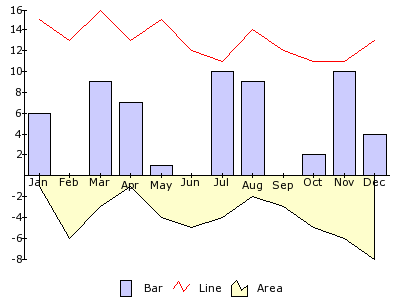
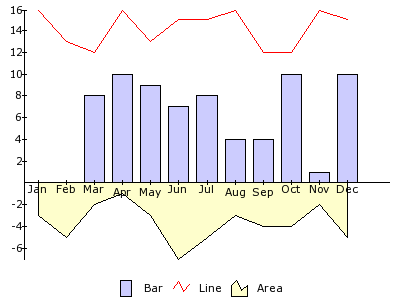
* Added clipping support, causing forceMinimum() and forceMaximum() to show expected results (new Image_Canvas functionality) * Modified axis arrows, so that an axis with all negative values, the arrow will be shown at the minimum value instead of maximum * Fixed a bug with Image_Graph_DataPreproces
git-svn-id: http://svn.php.net/repository/pear/packages/Image_Graph/trunk@201454 c90b9560-bf6c-de11-be94-00142212c4b1

diff --git a/docs/examples/index.html b/docs/examples/index.html
@@ -1,1 +1,1 @@
-<!DOCTYPE html PUBLIC "-//W3C//DTD HTML 4.01 Transitional//EN"><html><head><title>Image_Graph Examples</title></head><body><strong>antialias.php</strong><br><img src="antialias.php" alt="antialias.php"><hr size=1><strong>axis_direction.php</strong><br><img src="axis_direction.php" alt="axis_direction.php"><hr size=1><strong>category_axis_explanation.php</strong><br><img src="category_axis_explanation.php" alt="category_axis_explanation.php"><hr size=1><strong>color_chart.php</strong><br><img src="color_chart.php" alt="color_chart.php"><hr size=1><strong>customize.php</strong><br><img src="customize.php" alt="customize.php"><hr size=1><strong>datapreprocessor.php</strong><br><img src="datapreprocessor.php" alt="datapreprocessor.php"><hr size=1><strong>double_category_axis.php</strong><br><img src="double_category_axis.php" alt="double_category_axis.php"><hr size=1><strong>driver_pdf.php</strong><br><img src="driver_pdf.php" alt="driver_pdf.php"><hr size=1><strong>driver_png_svg.php</strong><br><img src="driver_png_svg.php" alt="driver_png_svg.php"><hr size=1><strong>driver_swf01.php</strong><br><img src="driver_swf01.php" alt="driver_swf01.php"><hr size=1><strong>driver_swf02.php</strong><br><img src="driver_swf02.php" alt="driver_swf02.php"><hr size=1><strong>driver_swf03.php</strong><br><img src="driver_swf03.php" alt="driver_swf03.php"><hr size=1><strong>frontpage_sample.php</strong><br><img src="frontpage_sample.php" alt="frontpage_sample.php"><hr size=1><strong>gradient_fill_area.php</strong><br><img src="gradient_fill_area.php" alt="gradient_fill_area.php"><hr size=1><strong>gradient_pie.php</strong><br><img src="gradient_pie.php" alt="gradient_pie.php"><hr size=1><strong>gradient_step.php</strong><br><img src="gradient_step.php" alt="gradient_step.php"><hr size=1><strong>html_image_map.php</strong><br><img src="html_image_map.php" alt="html_image_map.php"><hr size=1><strong>image_fill.php</strong><br><img src="image_fill.php" alt="image_fill.php"><hr size=1><strong>layout_matrix.php</strong><br><img src="layout_matrix.php" alt="layout_matrix.php"><hr size=1><strong>line_break.php</strong><br><img src="line_break.php" alt="line_break.php"><hr size=1><strong>logo_graph.php</strong><br><img src="logo_graph.php" alt="logo_graph.php"><hr size=1><strong>log_axis.php</strong><br><img src="log_axis.php" alt="log_axis.php"><hr size=1><strong>log_axis_intersect.php</strong><br><img src="log_axis_intersect.php" alt="log_axis_intersect.php"><hr size=1><strong>manual_labels.php</strong><br><img src="manual_labels.php" alt="manual_labels.php"><hr size=1><strong>misc01.php</strong><br><img src="misc01.php" alt="misc01.php"><hr size=1><strong>misc02.php</strong><br><img src="misc02.php" alt="misc02.php"><hr size=1><strong>misc03.php</strong><br><img src="misc03.php" alt="misc03.php"><hr size=1><strong>misc04.php</strong><br><img src="misc04.php" alt="misc04.php"><hr size=1><strong>misc05.php</strong><br><img src="misc05.php" alt="misc05.php"><hr size=1><strong>misc06.php</strong><br><img src="misc06.php" alt="misc06.php"><hr size=1><strong>multiple_plots.php</strong><br><img src="multiple_plots.php" alt="multiple_plots.php"><hr size=1><strong>negative_values.php</strong><br><img src="negative_values.php" alt="negative_values.php"><hr size=1><strong>plot_all.php</strong><br><img src="plot_all.php" alt="plot_all.php"><hr size=1><strong>plot_all_horizontal.php</strong><br><img src="plot_all_horizontal.php" alt="plot_all_horizontal.php"><hr size=1><strong>plot_all_horizontal_invert.php</strong><br><img src="plot_all_horizontal_invert.php" alt="plot_all_horizontal_invert.php"><hr size=1><strong>plot_area.php</strong><br><img src="plot_area.php" alt="plot_area.php"><hr size=1><strong>plot_area_smooth.php</strong><br><img src="plot_area_smooth.php" alt="plot_area_smooth.php"><hr size=1><strong>plot_area_stack.php</strong><br><img src="plot_area_stack.php" alt="plot_area_stack.php"><hr size=1><strong>plot_band.php</strong><br><img src="plot_band.php" alt="plot_band.php"><hr size=1><strong>plot_bar.php</strong><br><img src="plot_bar.php" alt="plot_bar.php"><hr size=1><strong>plot_bar_horizontal.php</strong><br><img src="plot_bar_horizontal.php" alt="plot_bar_horizontal.php"><hr size=1><strong>plot_bar_multiple.php</strong><br><img src="plot_bar_multiple.php" alt="plot_bar_multiple.php"><hr size=1><strong>plot_bar_stacked.php</strong><br><img src="plot_bar_stacked.php" alt="plot_bar_stacked.php"><hr size=1><strong>plot_bar_stacked100pct.php</strong><br><img src="plot_bar_stacked100pct.php" alt="plot_bar_stacked100pct.php"><hr size=1><strong>plot_bar_stacked_horizontal.php</strong><br><img src="plot_bar_stacked_horizontal.php" alt="plot_bar_stacked_horizontal.php"><hr size=1><strong>plot_bar_stacked_negative.php</strong><br><img src="plot_bar_stacked_negative.php" alt="plot_bar_stacked_negative.php"><hr size=1><strong>plot_boxwhisker.php</strong><br><img src="plot_boxwhisker.php" alt="plot_boxwhisker.php"><hr size=1><strong>plot_candlestick.php</strong><br><img src="plot_candlestick.php" alt="plot_candlestick.php"><hr size=1><strong>plot_impulse.php</strong><br><img src="plot_impulse.php" alt="plot_impulse.php"><hr size=1><strong>plot_impulse_stacked.php</strong><br><img src="plot_impulse_stacked.php" alt="plot_impulse_stacked.php"><hr size=1><strong>plot_line.php</strong><br><img src="plot_line.php" alt="plot_line.php"><hr size=1><strong>plot_line_smooth.php</strong><br><img src="plot_line_smooth.php" alt="plot_line_smooth.php"><hr size=1><strong>plot_map.php</strong><br><img src="plot_map.php" alt="plot_map.php"><hr size=1><strong>plot_odo.php</strong><br><img src="plot_odo.php" alt="plot_odo.php"><hr size=1><strong>plot_pie.php</strong><br><img src="plot_pie.php" alt="plot_pie.php"><hr size=1><strong>plot_pie_rotate.php</strong><br><img src="plot_pie_rotate.php" alt="plot_pie_rotate.php"><hr size=1><strong>plot_radar.php</strong><br><img src="plot_radar.php" alt="plot_radar.php"><hr size=1><strong>plot_radar_smooth.php</strong><br><img src="plot_radar_smooth.php" alt="plot_radar_smooth.php"><hr size=1><strong>plot_scatter.php</strong><br><img src="plot_scatter.php" alt="plot_scatter.php"><hr size=1><strong>plot_scatter_linefit.php</strong><br><img src="plot_scatter_linefit.php" alt="plot_scatter_linefit.php"><hr size=1><strong>plot_step.php</strong><br><img src="plot_step.php" alt="plot_step.php"><hr size=1><strong>secondary_axis.php</strong><br><img src="secondary_axis.php" alt="secondary_axis.php"><hr size=1><strong>simple.php</strong><br><img src="simple.php" alt="simple.php"><hr size=1><strong>simple_graph.php</strong><br><img src="simple_graph.php" alt="simple_graph.php"><hr size=1><strong>small_pie_plot.php</strong><br><img src="small_pie_plot.php" alt="small_pie_plot.php"><hr size=1><strong>vector_function.php</strong><br><img src="vector_function.php" alt="vector_function.php"><hr size=1></body></html>
+<!DOCTYPE html PUBLIC "-//W3C//DTD HTML 4.01 Transitional//EN"><html><head><title>Image_Graph Examples</title></head><body><strong>antialias.php</strong><br><img src="antialias.php" alt="antialias.php"><hr size=1><strong>axis_direction.php</strong><br><img src="axis_direction.php" alt="axis_direction.php"><hr size=1><strong>category_axis_explanation.php</strong><br><img src="category_axis_explanation.php" alt="category_axis_explanation.php"><hr size=1><strong>color_chart.php</strong><br><img src="color_chart.php" alt="color_chart.php"><hr size=1><strong>customize.php</strong><br><img src="customize.php" alt="customize.php"><hr size=1><strong>datapreprocessor.php</strong><br><img src="datapreprocessor.php" alt="datapreprocessor.php"><hr size=1><strong>double_category_axis.php</strong><br><img src="double_category_axis.php" alt="double_category_axis.php"><hr size=1><strong>driver_filepdf.php</strong><br><img src="driver_filepdf.php" alt="driver_filepdf.php"><hr size=1><strong>driver_pdf.php</strong><br><img src="driver_pdf.php" alt="driver_pdf.php"><hr size=1><strong>driver_png_svg.php</strong><br><img src="driver_png_svg.php" alt="driver_png_svg.php"><hr size=1><strong>driver_swf01.php</strong><br><img src="driver_swf01.php" alt="driver_swf01.php"><hr size=1><strong>driver_swf02.php</strong><br><img src="driver_swf02.php" alt="driver_swf02.php"><hr size=1><strong>driver_swf03.php</strong><br><img src="driver_swf03.php" alt="driver_swf03.php"><hr size=1><strong>frontpage_sample.php</strong><br><img src="frontpage_sample.php" alt="frontpage_sample.php"><hr size=1><strong>gradient_fill_area.php</strong><br><img src="gradient_fill_area.php" alt="gradient_fill_area.php"><hr size=1><strong>gradient_pie.php</strong><br><img src="gradient_pie.php" alt="gradient_pie.php"><hr size=1><strong>gradient_step.php</strong><br><img src="gradient_step.php" alt="gradient_step.php"><hr size=1><strong>horizontal.php</strong><br><img src="horizontal.php" alt="horizontal.php"><hr size=1><strong>html_image_map.php</strong><br><img src="html_image_map.php" alt="html_image_map.php"><hr size=1><strong>image_fill.php</strong><br><img src="image_fill.php" alt="image_fill.php"><hr size=1><strong>layout_matrix.php</strong><br><img src="layout_matrix.php" alt="layout_matrix.php"><hr size=1><strong>line_break.php</strong><br><img src="line_break.php" alt="line_break.php"><hr size=1><strong>logo_graph.php</strong><br><img src="logo_graph.php" alt="logo_graph.php"><hr size=1><strong>log_axis.php</strong><br><img src="log_axis.php" alt="log_axis.php"><hr size=1><strong>log_axis_intersect.php</strong><br><img src="log_axis_intersect.php" alt="log_axis_intersect.php"><hr size=1><strong>manual_labels.php</strong><br><img src="manual_labels.php" alt="manual_labels.php"><hr size=1><strong>misc01.php</strong><br><img src="misc01.php" alt="misc01.php"><hr size=1><strong>misc02.php</strong><br><img src="misc02.php" alt="misc02.php"><hr size=1><strong>misc03.php</strong><br><img src="misc03.php" alt="misc03.php"><hr size=1><strong>misc04.php</strong><br><img src="misc04.php" alt="misc04.php"><hr size=1><strong>misc05.php</strong><br><img src="misc05.php" alt="misc05.php"><hr size=1><strong>misc06.php</strong><br><img src="misc06.php" alt="misc06.php"><hr size=1><strong>multiple_plots.php</strong><br><img src="multiple_plots.php" alt="multiple_plots.php"><hr size=1><strong>negative_values.php</strong><br><img src="negative_values.php" alt="negative_values.php"><hr size=1><strong>plot_all.php</strong><br><img src="plot_all.php" alt="plot_all.php"><hr size=1><strong>plot_all_horizontal.php</strong><br><img src="plot_all_horizontal.php" alt="plot_all_horizontal.php"><hr size=1><strong>plot_all_horizontal_invert.php</strong><br><img src="plot_all_horizontal_invert.php" alt="plot_all_horizontal_invert.php"><hr size=1><strong>plot_area.php</strong><br><img src="plot_area.php" alt="plot_area.php"><hr size=1><strong>plot_area_smooth.php</strong><br><img src="plot_area_smooth.php" alt="plot_area_smooth.php"><hr size=1><strong>plot_area_stack.php</strong><br><img src="plot_area_stack.php" alt="plot_area_stack.php"><hr size=1><strong>plot_band.php</strong><br><img src="plot_band.php" alt="plot_band.php"><hr size=1><strong>plot_bar.php</strong><br><img src="plot_bar.php" alt="plot_bar.php"><hr size=1><strong>plot_bar_horizontal.php</strong><br><img src="plot_bar_horizontal.php" alt="plot_bar_horizontal.php"><hr size=1><strong>plot_bar_multiple.php</strong><br><img src="plot_bar_multiple.php" alt="plot_bar_multiple.php"><hr size=1><strong>plot_bar_stacked.php</strong><br><img src="plot_bar_stacked.php" alt="plot_bar_stacked.php"><hr size=1><strong>plot_bar_stacked100pct.php</strong><br><img src="plot_bar_stacked100pct.php" alt="plot_bar_stacked100pct.php"><hr size=1><strong>plot_bar_stacked_horizontal.php</strong><br><img src="plot_bar_stacked_horizontal.php" alt="plot_bar_stacked_horizontal.php"><hr size=1><strong>plot_bar_stacked_negative.php</strong><br><img src="plot_bar_stacked_negative.php" alt="plot_bar_stacked_negative.php"><hr size=1><strong>plot_boxwhisker.php</strong><br><img src="plot_boxwhisker.php" alt="plot_boxwhisker.php"><hr size=1><strong>plot_candlestick.php</strong><br><img src="plot_candlestick.php" alt="plot_candlestick.php"><hr size=1><strong>plot_impulse.php</strong><br><img src="plot_impulse.php" alt="plot_impulse.php"><hr size=1><strong>plot_impulse_stacked.php</strong><br><img src="plot_impulse_stacked.php" alt="plot_impulse_stacked.php"><hr size=1><strong>plot_line.php</strong><br><img src="plot_line.php" alt="plot_line.php"><hr size=1><strong>plot_line_smooth.php</strong><br><img src="plot_line_smooth.php" alt="plot_line_smooth.php"><hr size=1><strong>plot_map.php</strong><br><img src="plot_map.php" alt="plot_map.php"><hr size=1><strong>plot_odo.php</strong><br><img src="plot_odo.php" alt="plot_odo.php"><hr size=1><strong>plot_pie.php</strong><br><img src="plot_pie.php" alt="plot_pie.php"><hr size=1><strong>plot_pie_rotate.php</strong><br><img src="plot_pie_rotate.php" alt="plot_pie_rotate.php"><hr size=1><strong>plot_radar.php</strong><br><img src="plot_radar.php" alt="plot_radar.php"><hr size=1><strong>plot_radar_smooth.php</strong><br><img src="plot_radar_smooth.php" alt="plot_radar_smooth.php"><hr size=1><strong>plot_scatter.php</strong><br><img src="plot_scatter.php" alt="plot_scatter.php"><hr size=1><strong>plot_scatter_linefit.php</strong><br><img src="plot_scatter_linefit.php" alt="plot_scatter_linefit.php"><hr size=1><strong>plot_step.php</strong><br><img src="plot_step.php" alt="plot_step.php"><hr size=1><strong>secondary_axis.php</strong><br><img src="secondary_axis.php" alt="secondary_axis.php"><hr size=1><strong>simple.php</strong><br><img src="simple.php" alt="simple.php"><hr size=1><strong>simple_graph.php</strong><br><img src="simple_graph.php" alt="simple_graph.php"><hr size=1><strong>small_pie_plot.php</strong><br><img src="small_pie_plot.php" alt="small_pie_plot.php"><hr size=1><strong>vector_function.php</strong><br><img src="vector_function.php" alt="vector_function.php"><hr size=1></body></html>

diff --git a/docs/examples/all_negative.php b/docs/examples/all_negative.php
@@ -1,0 +1,72 @@
+<?php
+/**
+ * Usage example for Image_Graph.
+ * 
+ * Main purpose: 
+ * Axis arrows when all values are negative
+ * 
+ * Other: 
+ * None specific
+ * 
+ * $Id$
+ * 
+ * @package Image_Graph
+ * @author Jesper Veggerby <pear.nosey@veggerby.dk>
+ */
+
+require_once 'Image/Graph.php';
+
+// create the graph
+$Graph =& Image_Graph::factory('graph', array(600, 300));
+
+// add a TrueType font
+$Font =& $Graph->addNew('font', 'Verdana');
+// set the font size to 11 pixels
+$Font->setSize(10);
+
+$Graph->setFont($Font);
+
+// setup the plotarea, legend and their layout
+$Graph->add(
+   Image_Graph::vertical(
+      Image_Graph::factory('title', array('Arrow Position on All Negative', 12)),        
+      Image_Graph::horizontal(
+         $Plotarea1 = Image_Graph::factory('plotarea'),
+         $Plotarea2 = Image_Graph::factory('plotarea'),
+         50
+      ),
+      5
+   )
+);   
+
+$Dataset1 =& Image_Graph::factory('dataset');
+$Dataset1->addPoint('a', 19);
+$Dataset1->addPoint('b', 12);
+$Dataset1->addPoint('c', 16);
+$Dataset1->addPoint('d', 7);
+$Dataset1->addPoint('e', 21);
+$Dataset1->addPoint('f', 14);
+$Dataset1->addPoint('g', 16);
+$Plot1 =& $Plotarea1->addNew('line', array(&$Dataset1));
+$Plot1->setLineColor('red');                  
+
+$AxisY1 =& $Plotarea1->getAxis('y');
+$AxisY1->showArrow();                  
+
+$Dataset2 =& Image_Graph::factory('dataset');
+$Dataset2->addPoint('a', -19);
+$Dataset2->addPoint('b', -12);
+$Dataset2->addPoint('c', -16);
+$Dataset2->addPoint('d', -7);
+$Dataset2->addPoint('e', -21);
+$Dataset2->addPoint('f', -14);
+$Dataset2->addPoint('g', -16);
+$Plot2 =& $Plotarea2->addNew('line', array(&$Dataset2));
+$Plot2->setLineColor('red');
+
+$AxisY2 =& $Plotarea2->getAxis('y');
+$AxisY2->showArrow();                  
+     
+// output the Graph
+$Graph->done();
+?>

diff --git a/Graph/Plot.php b/Graph/Plot.php
@@ -704,16 +704,22 @@ class Image_Graph_Plot extends Image_Graph_Plotarea_Element
             $dataset->_reset();
             while ($point = $dataset->_next()) {
                 $x = $point['X'];
-                $total['ALL_SUM_Y'] += $point['Y'];
-                if (isset($total['TOTAL_Y'][$x])) {
-                    $total['TOTAL_Y'][$x] += $point['Y'];
-                } else {
-                    $total['TOTAL_Y'][$x] = $point['Y'];
+                
+                if (is_numeric($point['Y'])) {
+                    $total['ALL_SUM_Y'] += $point['Y'];
+                    if (isset($total['TOTAL_Y'][$x])) {
+                        $total['TOTAL_Y'][$x] += $point['Y'];
+                    } else {
+                        $total['TOTAL_Y'][$x] = $point['Y'];
+                    }
                 }
-                if (isset($total['TOTAL_X'][$x])) {
-                    $total['TOTAL_X'][$x] += $point['X'];
-                } else {
-                    $total['TOTAL_X'][$x] = $point['X'];
+                
+                if (is_numeric($point['X'])) {
+                    if (isset($total['TOTAL_X'][$x])) {
+                        $total['TOTAL_X'][$x] += $point['X'];
+                    } else {
+                        $total['TOTAL_X'][$x] = $point['X'];
+                    }
                 }
             }
         }

diff --git a/Graph/Element.php b/Graph/Element.php
@@ -467,6 +467,27 @@ class Image_Graph_Element extends Image_Graph_Common
     }
 
     /**
+     * Clip the canvas to the coordinates of the element
+     * 
+     * @param $enable bool Whether clipping should be enabled or disabled
+     * @access protected
+     */
+    function _clip($enable)
+    {
+        $this->_canvas->setClipping(
+            ($enable ?
+                array(
+                    'x0' => min($this->_left, $this->_right),
+                    'y0' => min($this->_top, $this->_bottom),
+                    'x1' => max($this->_left, $this->_right),
+                    'y1' => max($this->_top, $this->_bottom)
+                )
+                : false
+            )
+        );
+    }
+
+    /**
      * Sets the coordinates of the element
      *
      * @param int $left The leftmost pixel of the element on the canvas

diff --git a/Graph/Plot/Smoothed/Radar.php b/Graph/Plot/Smoothed/Radar.php
@@ -59,6 +59,7 @@ class Image_Graph_Plot_Smoothed_Radar extends Image_Graph_Plot_Smoothed_Bezier
     function _done()
     {
         $this->_canvas->startGroup(get_class($this) . '_' . $this->_title);
+        $this->_clip(true);
         if (is_a($this->_parent, 'Image_Graph_Plotarea_Radar')) {
             $keys = array_keys($this->_dataset);
             foreach ($keys as $key) {
@@ -131,6 +132,7 @@ class Image_Graph_Plot_Smoothed_Radar extends Image_Graph_Plot_Smoothed_Bezier
             unset($keys);
         }
         $this->_drawMarker();
+        $this->_clip(false);
         $this->_canvas->endGroup($this->_title);
         return parent::_done();
     }

diff --git a/Graph/Plot/Odo.php b/Graph/Plot/Odo.php
@@ -639,7 +639,8 @@ class Image_Graph_Plot_Odo extends Image_Graph_Plot
         if (is_array($this->_dataset)) {
 
             $this->_canvas->startGroup(get_class($this) . '_' . $this->_title);
-
+            $this->_clip(true);
+            
             $totals = $this->_getTotals();
             $totals['CENTER_X'] = (int) (($this->_left + $this->_right) / 2);
             $totals['CENTER_Y'] = (int) (($this->_top + $this->_bottom) / 2);
@@ -710,6 +711,7 @@ class Image_Graph_Plot_Odo extends Image_Graph_Plot
                 }
             }
             unset($keys);
+            $this->_clip(false);
             $this->_canvas->endGroup();
         }
     }

diff --git a/Graph/Plot/Area.php b/Graph/Plot/Area.php
@@ -86,8 +86,11 @@ class Image_Graph_Plot_Area extends Image_Graph_Plot
         if (parent::_done() === false) {
             return false;
         }
-
+        
         $this->_canvas->startGroup(get_class($this) . '_' . $this->_title);
+
+        $this->_clip(true);        
+
         $base = array();
         if ($this->_multiType == 'stacked') {
             reset($this->_dataset);
@@ -179,7 +182,10 @@ class Image_Graph_Plot_Area extends Image_Graph_Plot
         }
         unset($keys);
         $this->_drawMarker();
+        $this->_clip(false);
+                
         $this->_canvas->endGroup();
+
         return true;
     }
 

diff --git a/Graph/Plot/Radar.php b/Graph/Plot/Radar.php
@@ -85,6 +85,7 @@ class Image_Graph_Plot_Radar extends Image_Graph_Plot
     function _done()
     {
         $this->_canvas->startGroup(get_class($this) . '_' . $this->_title);
+        $this->_clip(true);
         if (is_a($this->_parent, 'Image_Graph_Plotarea_Radar')) {
             $keys = array_keys($this->_dataset);
             foreach ($keys as $key) {
@@ -107,7 +108,8 @@ class Image_Graph_Plot_Radar extends Image_Graph_Plot
         }
         $this->_drawMarker();
 
-        $this->_canvas->endGroup();
+        $this->_clip(false);
+        $this->_canvas->endGroup();        
         return parent::_done();
     }
 

diff --git a/Graph/Plot/Bar.php b/Graph/Plot/Bar.php
@@ -133,6 +133,8 @@ class Image_Graph_Plot_Bar extends Image_Graph_Plot
 
         $this->_canvas->startGroup(get_class($this) . '_' . $this->_title);
 
+        $this->_clip(true);        
+
         if ($this->_width == 'auto') {
             $width = $this->_parent->_labelDistance(IMAGE_GRAPH_AXIS_X) / 2;            
         } elseif ($this->_width['unit'] == '%') {
@@ -293,8 +295,11 @@ class Image_Graph_Plot_Bar extends Image_Graph_Plot
         unset($keys);
 
         $this->_drawMarker();
+
+        $this->_clip(false);        
         
         $this->_canvas->endGroup();        
+
         return true;
     }
 }

diff --git a/Graph/Plot/Smoothed/Area.php b/Graph/Plot/Smoothed/Area.php
@@ -85,6 +85,8 @@ class Image_Graph_Plot_Smoothed_Area extends Image_Graph_Plot_Smoothed_Bezier
         }
 
         $this->_canvas->startGroup(get_class($this) . '_' . $this->_title);
+        $this->_clip(true);
+        
         $keys = array_keys($this->_dataset);
         foreach ($keys as $key) {
             $dataset =& $this->_dataset[$key];
@@ -133,6 +135,7 @@ class Image_Graph_Plot_Smoothed_Area extends Image_Graph_Plot_Smoothed_Bezier
         }
         unset($keys);
         $this->_drawMarker();
+        $this->_clip(false);
         $this->_canvas->endGroup();
         return true;
     }

diff --git a/Graph/Plot/Pie.php b/Graph/Plot/Pie.php
@@ -499,6 +499,7 @@ class Image_Graph_Plot_Pie extends Image_Graph_Plot
         if (is_array($this->_dataset)) {
             
             $this->_canvas->startGroup(get_class($this) . '_' . $this->_title);
+            $this->_clip(true);
             
             $totals = $this->_getTotals();
             $totals['CENTER_X'] = (int) (($this->_left + $this->_right) / 2);
@@ -612,6 +613,7 @@ class Image_Graph_Plot_Pie extends Image_Graph_Plot
                 }
             }
             unset($keys);
+            $this->_clip(false);
             $this->_canvas->endGroup();
         }
     }
